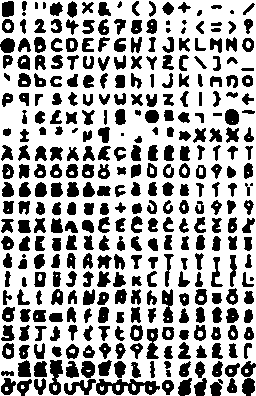
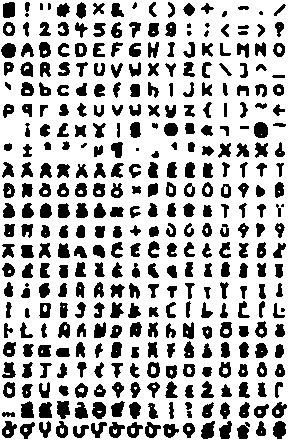
Added 1-pixel transparent border around glyphs to avoid GL blending artifacts when scaling along with a script for doing so
Only while.stf has been converted so far

Changed region(s): [[0.0, 0.0, 1.0, 1.0], [0.8438, 0.0, 0.875, 0.0303]]

diff --git a/tools/font-add-border.py b/tools/font-add-border.py
@@ -1,0 +1,67 @@
+#!/usr/bin/env python3
+# SuperTux
+# Copyright (C) 2014 Ingo Ruhnke <grumbel@gmx.de>
+#
+# This program is free software: you can redistribute it and/or modify
+# it under the terms of the GNU General Public License as published by
+# the Free Software Foundation, either version 3 of the License, or
+# (at your option) any later version.
+#
+# This program is distributed in the hope that it will be useful,
+# but WITHOUT ANY WARRANTY; without even the implied warranty of
+# MERCHANTABILITY or FITNESS FOR A PARTICULAR PURPOSE.  See the
+# GNU General Public License for more details.
+#
+# You should have received a copy of the GNU General Public License
+# along with this program.  If not, see <http://www.gnu.org/licenses/>.
+
+from PIL import Image
+import sys
+import argparse
+
+# Add a 1 pixel border around every glyph in a font
+
+def fix_font_file(filename, glyph_width, glyph_height):
+    print("Processing %s %dx%d" % (filename, glyph_width, glyph_height))
+    img = Image.open(filename)
+    w, h = img.size
+    
+    assert w % glyph_width == 0, "image not multiple of glyph width"
+    assert h % glyph_height == 0, "image not multiple of glyph height"
+
+    w_g = w // glyph_width
+    h_g = h // glyph_height
+
+    print("Glyphs: %ax%a" % (w_g, h_g))
+
+    out = Image.new("RGBA", (w_g * (glyph_width + 2), h_g * (glyph_height + 2)), color=5)
+
+    for y in range(0, h_g):
+        for x in range(0, w_g):
+            ix = x * glyph_width
+            iy = y * glyph_height
+
+            ox = x * (glyph_width + 2) + 1
+            oy = y * (glyph_height + 2) + 1
+
+            glyph = img.crop((ix, iy, ix + glyph_width, iy + glyph_height))
+            out.paste(glyph, (ox, oy))
+
+    out.save("/tmp/out.png")
+
+if __name__ == "__main__":
+    parser = argparse.ArgumentParser(description='rFactor MAS packer')
+    parser.add_argument('FILE', action='store', type=str,
+                        help='font image to change')
+
+    parser.add_argument('GLYPH_WIDTH', action='store', type=int,
+                        help='glyph width')
+
+    parser.add_argument('GLYPH_HEIGHT', action='store', type=int,
+                        help='glyph height')
+
+    args = parser.parse_args()
+
+    fix_font_file(args.FILE, args.GLYPH_WIDTH, args.GLYPH_HEIGHT)
+
+# EOF #

diff --git a/src/video/font.cpp b/src/video/font.cpp
@@ -62,6 +62,7 @@ Font::Font(GlyphWidth glyph_width_,
   shadow_surfaces(),
   char_height(),
   shadowsize(shadowsize_),
+  border(0),
   glyphs(65536)
 {
   for(unsigned int i=0; i<65536;i++) glyphs[i].surface_idx = -1;
@@ -105,6 +106,8 @@ Font::loadFontFile(const std::string &filename)
     msg << "Font:" << filename << ": misses glyph-height";
     throw std::runtime_error(msg.str());
   }
+
+  config_l->get("glyph-border", border);
 
   lisp::ListIterator iter(config_l);
   while(iter.next()) {
@@ -190,8 +193,8 @@ Font::loadFontSurface(
 
   for( unsigned int i = 0; i < chars.size(); i++) {
     for(UTF8Iterator chr(chars[i]); !chr.done(); ++chr) {
-      int y = row * char_height;
-      int x = col * char_width;
+      int y = row * (char_height + 2*border) + border;
+      int x = col * (char_width + 2*border) + border;
       if( ++col == wrap ) { col=0; row++; }
       if( *chr == 0x0020 && glyphs[0x20].surface_idx != -1) continue;
         

diff --git a/src/video/font.hpp b/src/video/font.hpp
@@ -137,6 +137,7 @@ private:
   std::vector<SurfacePtr>  shadow_surfaces;
   int char_height;
   int shadowsize;
+  int border;
 
   /** 65536 of glyphs */
   std::vector<Glyph> glyphs;
